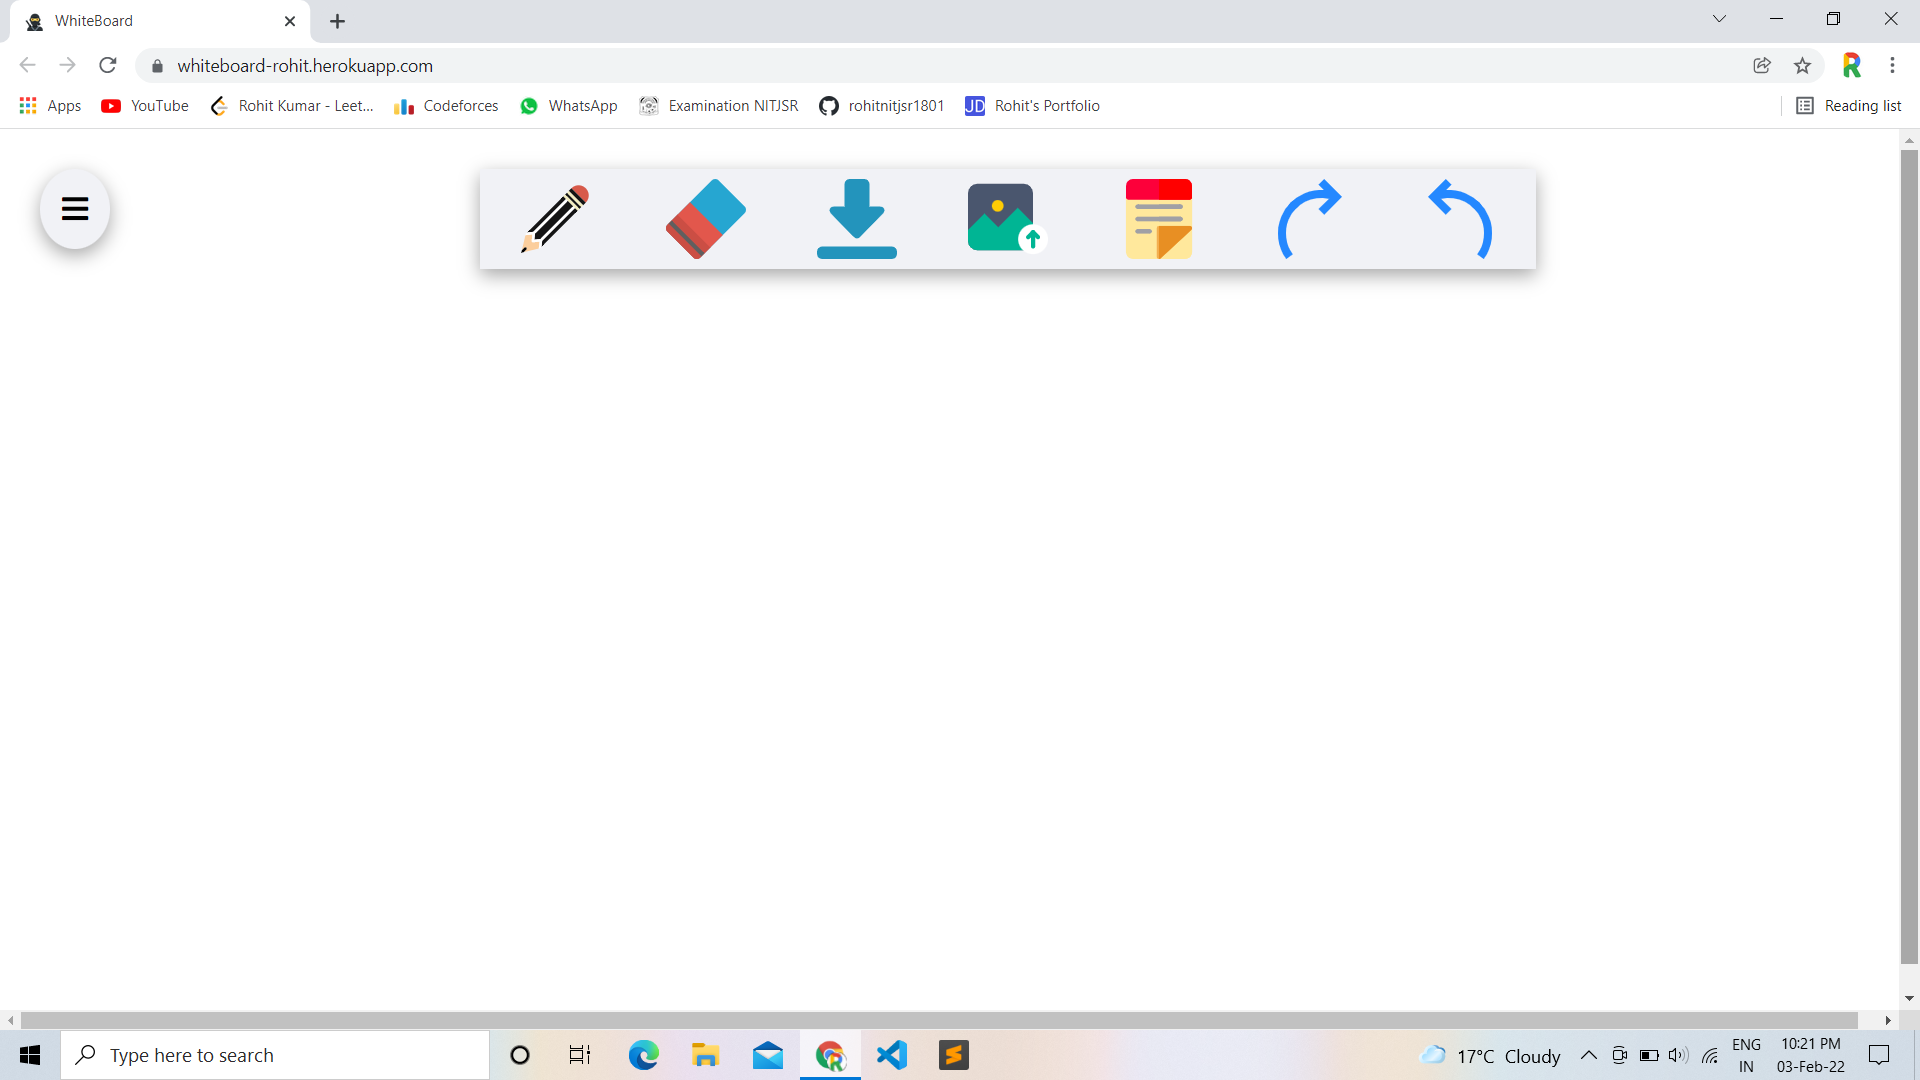
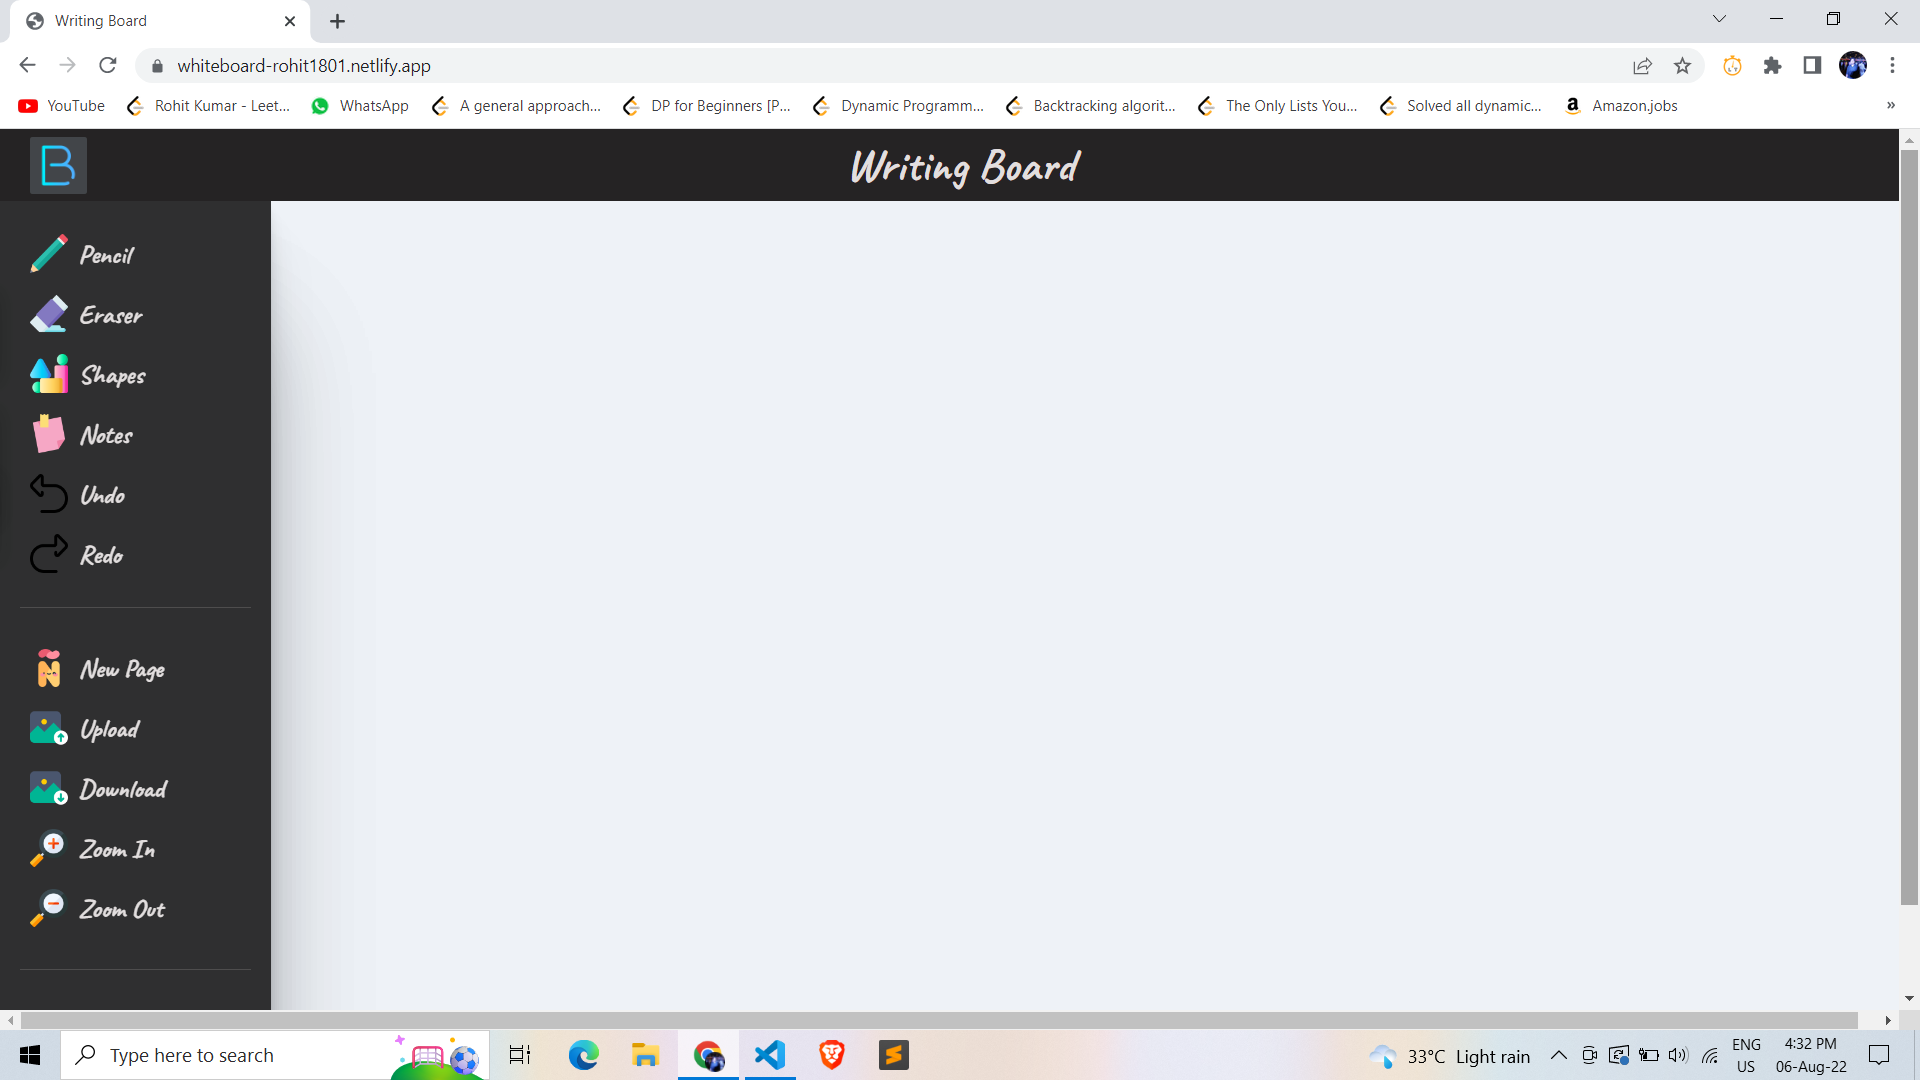
changes

diff --git a/index.html b/index.html
@@ -159,7 +159,7 @@
           <p class="project-details">
             An Online WhiteBoard that can be used and modified by multiple users at a time with undo,redo,upload picture&download features.Moreover you can insert a sticky note also.
           </p>
-          <a href="https://whiteboard-rohit.herokuapp.com/" target="_blank" class="project-link">Check it Out</a>
+          <a href="https://whiteboard-rohit1801.netlify.app/" target="_blank" class="project-link">Check it Out</a>
         </div>
       </div>
     </section>
@@ -189,7 +189,7 @@
         <p>
           <br>
           <h3 align="center">
-            Solved 750+ problems on LeetCode
+            Solved 850+ problems on LeetCode
           </h3>
           <h3 align="center">
             Max Rated 1701 on CodeChef
